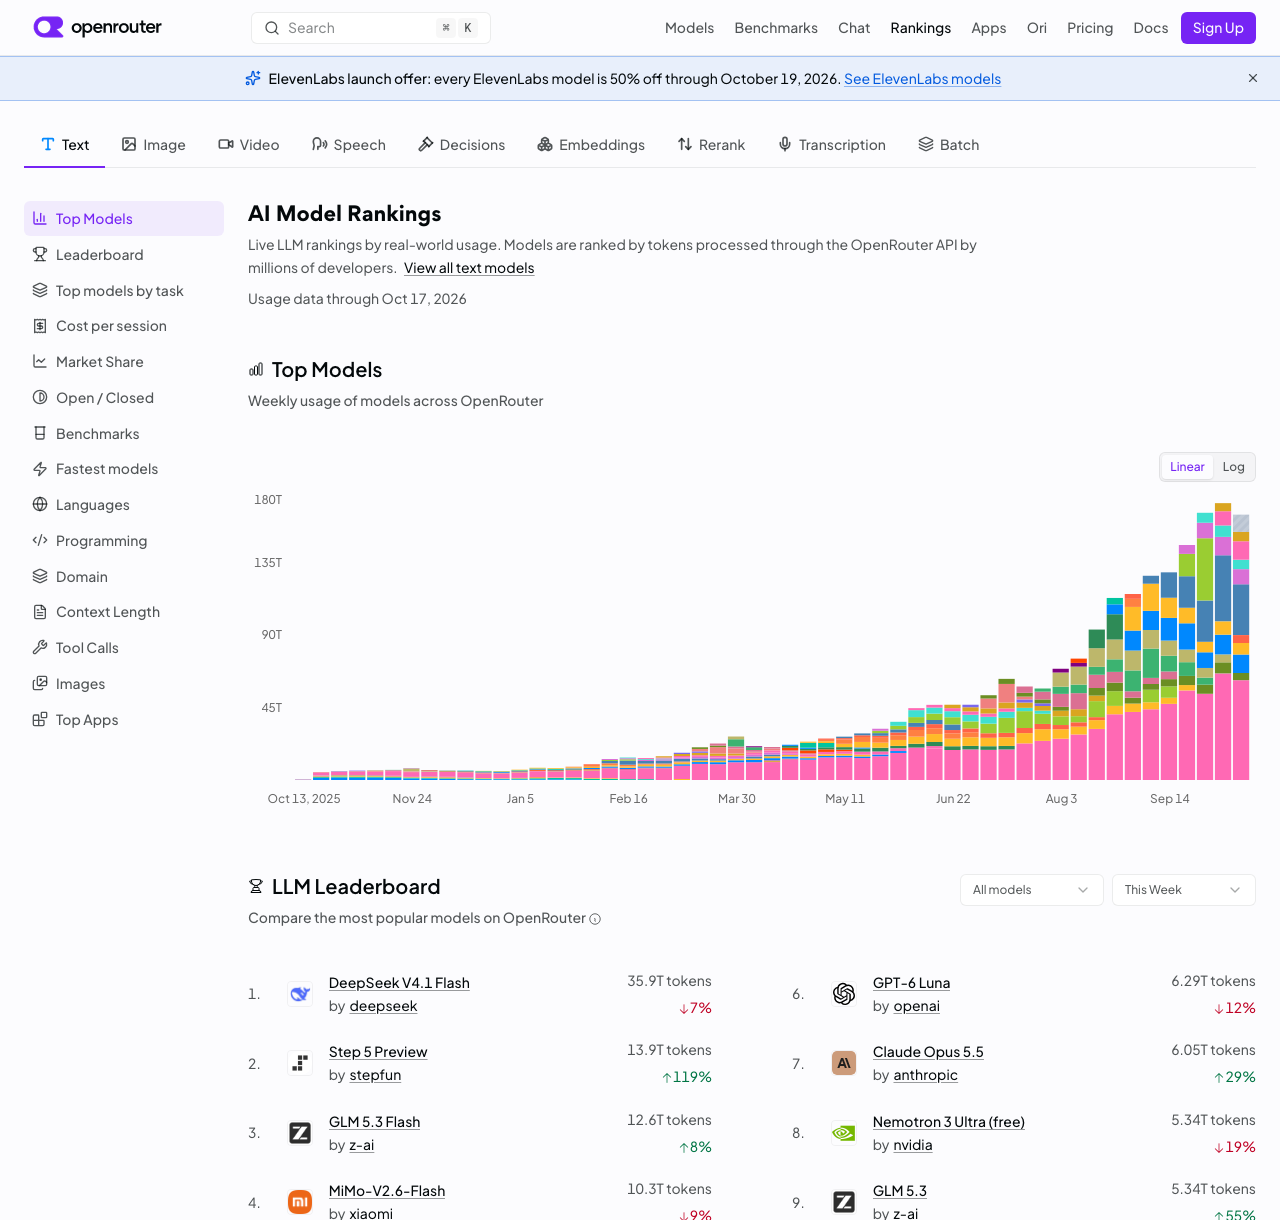
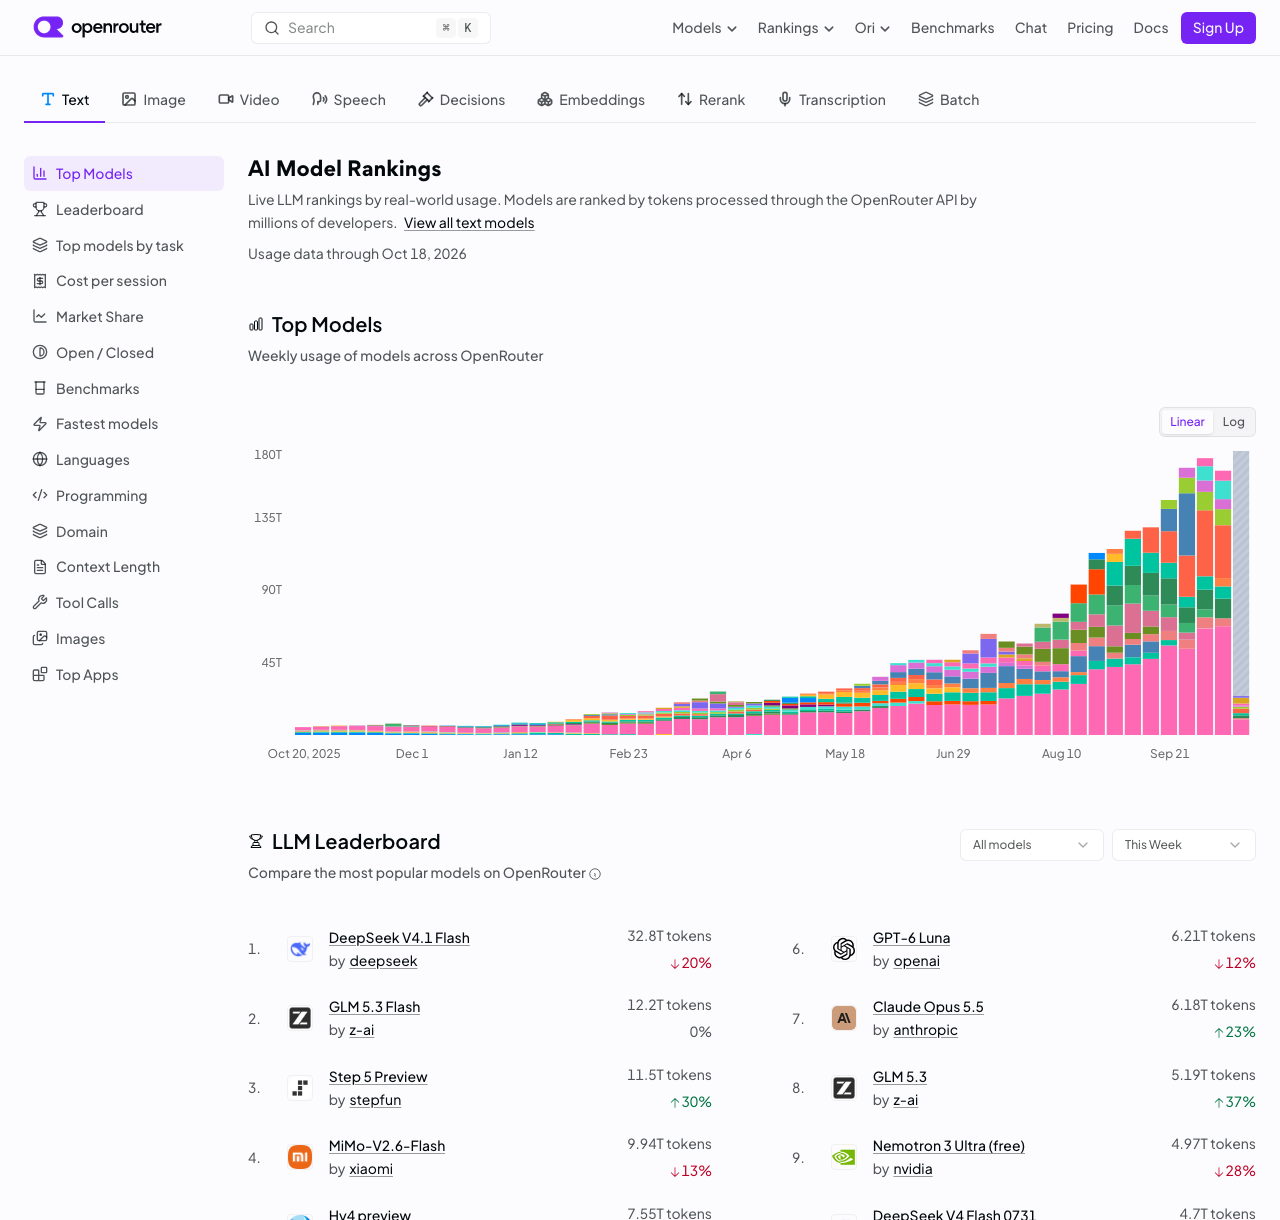
Update OpenRouter snapshot 2026-10-20T00:00:21Z

diff --git a/latest.md b/latest.md
@@ -1,6 +1,6 @@
 # OpenRouter Rankings Snapshot
 
-Generated at: 2026-10-18T13:00:18Z
+Generated at: 2026-10-20T00:00:21Z
 
 Source: https://openrouter.ai/rankings
 
